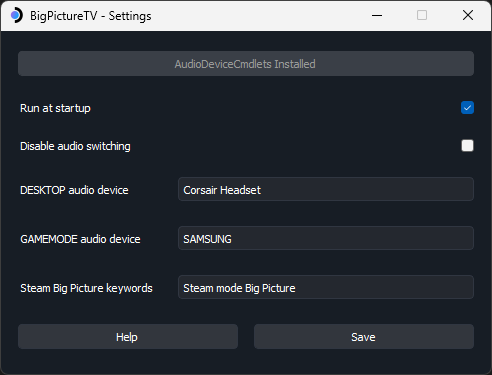
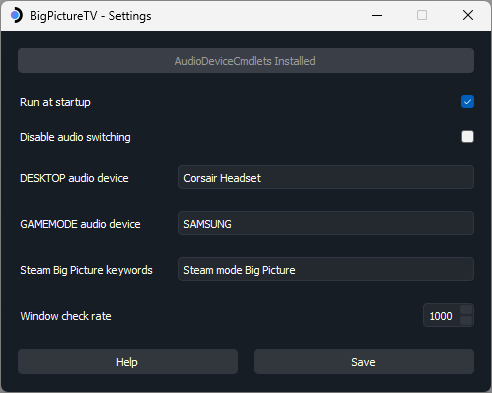
Added window check rate interval

diff --git a/src/BigPictureTV.py b/src/BigPictureTV.py
@@ -9,7 +9,7 @@ import pygetwindow as gw
 from enum import Enum
 from PyQt5.QtWidgets import QApplication, QMainWindow, QDialog, QMessageBox, QSystemTrayIcon, QMenu, QAction
 from PyQt5.QtGui import QIcon, QCursor
-from PyQt5.QtCore import Qt, QTimer, QPoint
+from PyQt5.QtCore import Qt, QTimer, QPoint, pyqtSignal
 from PyQt5 import uic
 
 class Mode(Enum):
@@ -42,7 +42,8 @@ def create_default_settings():
         "BIG_PICTURE_KEYWORDS": ["Steam", "mode", "Big", "Picture"],
         "GAMEMODE_AUDIO": "TV",
         "DESKTOP_AUDIO": "Headset",
-        "DisableAudioSwitch": False
+        "DisableAudioSwitch": False,
+        "CheckRate": 1000
     }
     with open(SETTINGS_FILE, 'w') as f:
         json.dump(settings_template, f, indent=4)
@@ -206,6 +207,7 @@ def is_audio_device_cmdlets_installed():
         return False
 
 class SettingsWindow(QMainWindow):
+    checkRateChanged = pyqtSignal(int)
     def __init__(self):
         super().__init__()
 
@@ -228,6 +230,10 @@ class SettingsWindow(QMainWindow):
         self.helpButton.clicked.connect(self.open_help_dialog)
         self.audioInstallButton.clicked.connect(self.install_audio_device_cmdlets)
 
+        self.checkRateSpinBox.valueChanged.connect(self.update_check_rate)
+        check_rate = self.constants.get('CheckRate', 1000)
+        self.checkRateSpinBox.setValue(check_rate)
+
         if is_audio_device_cmdlets_installed():
             self.audioInstallButton.setText("AudioDeviceCmdlets Installed")
             self.audioInstallButton.setEnabled(False)
@@ -238,6 +244,10 @@ class SettingsWindow(QMainWindow):
 
         disable_audio = self.constants.get('DisableAudioSwitch', False)
         self.disableAudioCheckbox.setChecked(disable_audio)
+
+    def update_check_rate(self, value):
+        self.constants['CheckRate'] = value
+        self.checkRateChanged.emit(value)
 
     def closeEvent(self, event):
         event.ignore()
@@ -257,6 +267,9 @@ class SettingsWindow(QMainWindow):
         disable_audio = self.constants.get('DisableAudioSwitch', False)
         self.disableAudioCheckbox.setChecked(disable_audio)
 
+        check_rate = self.constants.get('CheckRate', 1000)
+        self.checkRateSpinBox.setValue(check_rate)
+
         self.desktopEntry.setEnabled(not disable_audio)
         self.gamemodeEntry.setEnabled(not disable_audio)
 
@@ -265,6 +278,7 @@ class SettingsWindow(QMainWindow):
         self.constants['DESKTOP_AUDIO'] = self.desktopEntry.text()
         self.constants['GAMEMODE_AUDIO'] = self.gamemodeEntry.text()
         self.constants['DisableAudioSwitch'] = self.disableAudioCheckbox.isChecked()
+        self.constants['CheckRate'] = self.checkRateSpinBox.value()
 
         try:
             with open(self.constants_path, 'w') as f:
@@ -354,10 +368,21 @@ if __name__ == '__main__':
     tray_icon = create_tray_icon(current_mode)
 
     timer = QTimer()
+
+    def update_mode_timer_interval(check_rate):
+        timer_interval = check_rate
+        timer.setInterval(timer_interval)
+        timer.start()
+
+    settings_window = SettingsWindow()
+    settings_window.checkRateChanged.connect(update_mode_timer_interval)
+
     timer.timeout.connect(lambda: (
         switch_mode(Mode.GAMEMODE) if is_bigpicture_running() and current_mode != Mode.GAMEMODE and not read_stream_status() else None,
         switch_mode(Mode.DESKTOP) if not is_bigpicture_running() and current_mode != Mode.DESKTOP else None
     ))
-    timer.start(1000)
+
+    initial_check_rate = constants.get('CheckRate', 1000)
+    update_mode_timer_interval(initial_check_rate)
 
     sys.exit(app.exec_())
